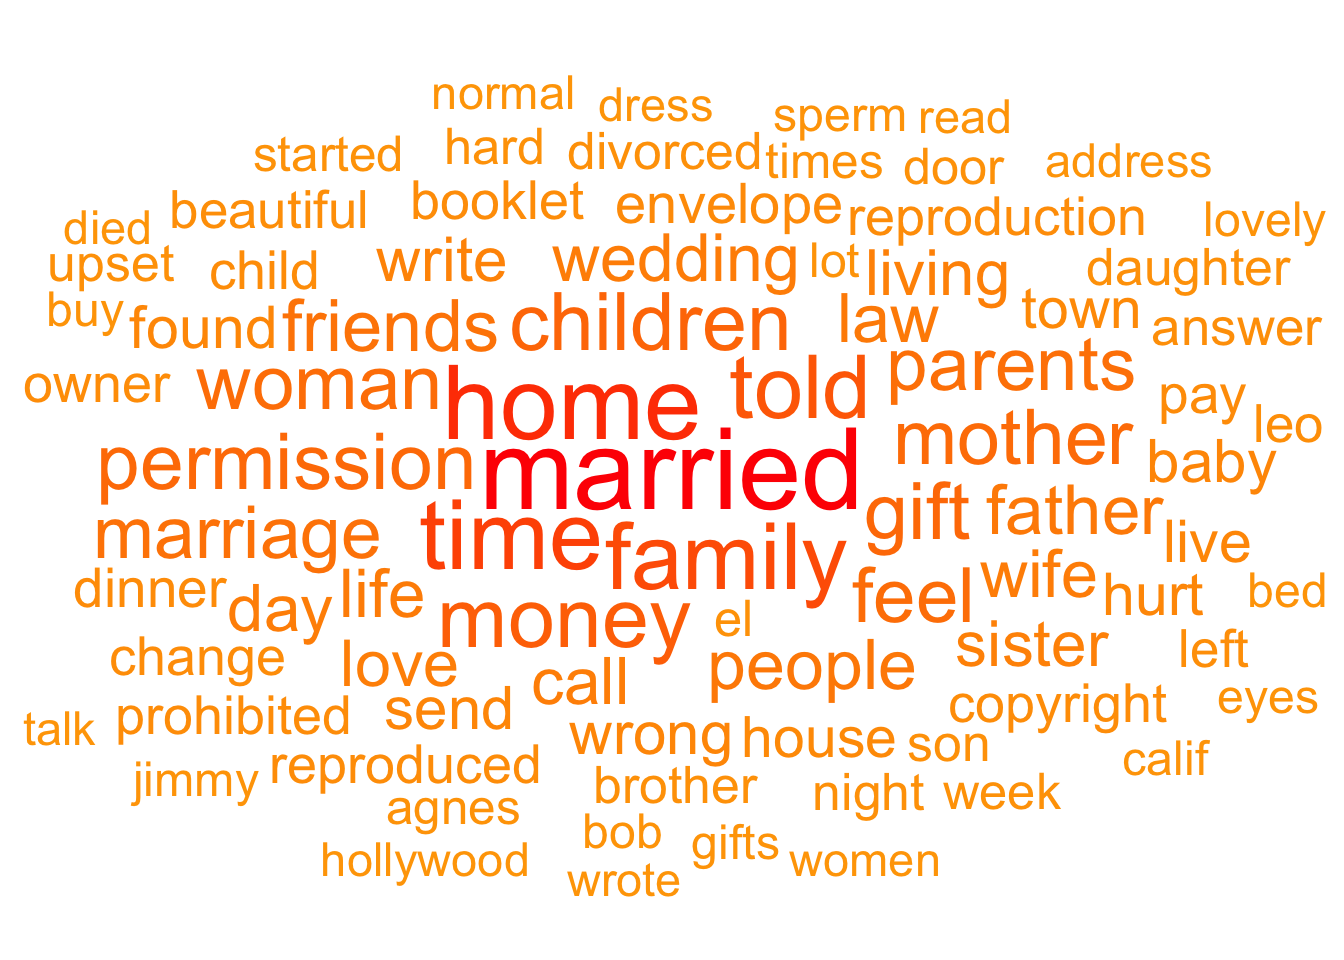
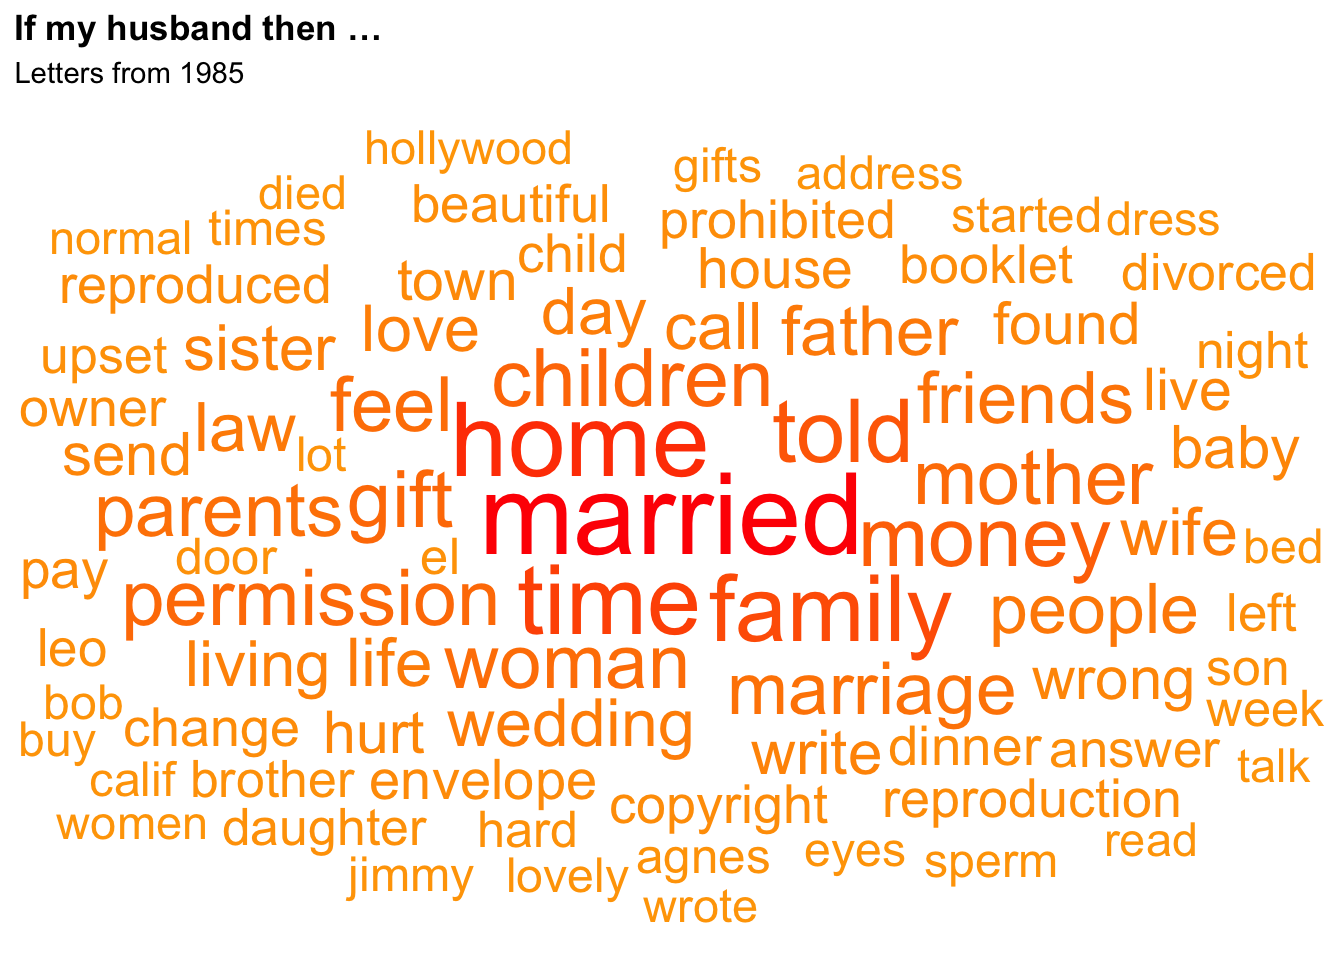
Oct 11 12:08

Changed region(s): [[0.0, 0.0625, 1.0, 0.9688], [0.0, 0.0, 0.25, 0.0938]]

diff --git a/docs/pudding.html b/docs/pudding.html
@@ -182,10 +182,6 @@ pre > code.sourceCode > span > a:first-child::before { text-decoration: underlin
   <li><a href="#dear-abby-in-2005" id="toc-dear-abby-in-2005" class="nav-link" data-scroll-target="#dear-abby-in-2005">Dear Abby in 2005</a></li>
   <li><a href="#dear-abby-in-2015" id="toc-dear-abby-in-2015" class="nav-link" data-scroll-target="#dear-abby-in-2015">Dear Abby in 2015</a></li>
   <li><a href="#husbands-vs-wifes" id="toc-husbands-vs-wifes" class="nav-link" data-scroll-target="#husbands-vs-wifes">Husbands vs Wifes</a></li>
-  <li><a href="#if-my-husband-then-1985" id="toc-if-my-husband-then-1985" class="nav-link" data-scroll-target="#if-my-husband-then-1985">If <em>my husband</em> then … (1985)</a></li>
-  <li><a href="#if-my-husband-then-1995" id="toc-if-my-husband-then-1995" class="nav-link" data-scroll-target="#if-my-husband-then-1995">If <em>my husband</em> then … (1995)</a></li>
-  <li><a href="#if-my-wife-then-1985" id="toc-if-my-wife-then-1985" class="nav-link" data-scroll-target="#if-my-wife-then-1985">If <em>my wife</em> then … (1985)</a></li>
-  <li><a href="#if-my-wife-then-1995" id="toc-if-my-wife-then-1995" class="nav-link" data-scroll-target="#if-my-wife-then-1995">If <em>my wife</em> then … (1995)</a></li>
   </ul></li>
   <li><a href="#five-top-words" id="toc-five-top-words" class="nav-link" data-scroll-target="#five-top-words">Five Top Words</a></li>
   </ul>
@@ -331,9 +327,6 @@ pre > code.sourceCode > span > a:first-child::before { text-decoration: underlin
 <section id="husbands-vs-wifes" class="level2">
 <h2 class="anchored" data-anchor-id="husbands-vs-wifes">Husbands vs Wifes</h2>
 <p>The word “husband” is consistenly one of the most frequently used in these letters throughout several decades. Is that because women are the main writters to Abby? In order to investigate this a bit further, I have selected letters that include the words “<strong>my husband</strong>” and “<strong>my wife</strong>” hoping that this indentifies the writer. This is obviously not a perfect strategy. The word clouds below come from those letters. Assuming that the writers are talking about their partners, what can the word frequencies tell us about the letters? Are the themes different? Have they changed through time?</p>
-</section>
-<section id="if-my-husband-then-1985" class="level2">
-<h2 class="anchored" data-anchor-id="if-my-husband-then-1985">If <em>my husband</em> then … (1985)</h2>
 <div class="cell">
 <div class="cell-output-display">
 <div>
@@ -343,9 +336,6 @@ pre > code.sourceCode > span > a:first-child::before { text-decoration: underlin
 </div>
 </div>
 </div>
-</section>
-<section id="if-my-husband-then-1995" class="level2">
-<h2 class="anchored" data-anchor-id="if-my-husband-then-1995">If <em>my husband</em> then … (1995)</h2>
 <div class="cell">
 <div class="cell-output-display">
 <div>
@@ -355,9 +345,6 @@ pre > code.sourceCode > span > a:first-child::before { text-decoration: underlin
 </div>
 </div>
 </div>
-</section>
-<section id="if-my-wife-then-1985" class="level2">
-<h2 class="anchored" data-anchor-id="if-my-wife-then-1985">If <em>my wife</em> then … (1985)</h2>
 <div class="cell">
 <div class="cell-output-display">
 <div>
@@ -367,9 +354,6 @@ pre > code.sourceCode > span > a:first-child::before { text-decoration: underlin
 </div>
 </div>
 </div>
-</section>
-<section id="if-my-wife-then-1995" class="level2">
-<h2 class="anchored" data-anchor-id="if-my-wife-then-1995">If <em>my wife</em> then … (1995)</h2>
 <div class="cell">
 <div class="cell-output-display">
 <div>
